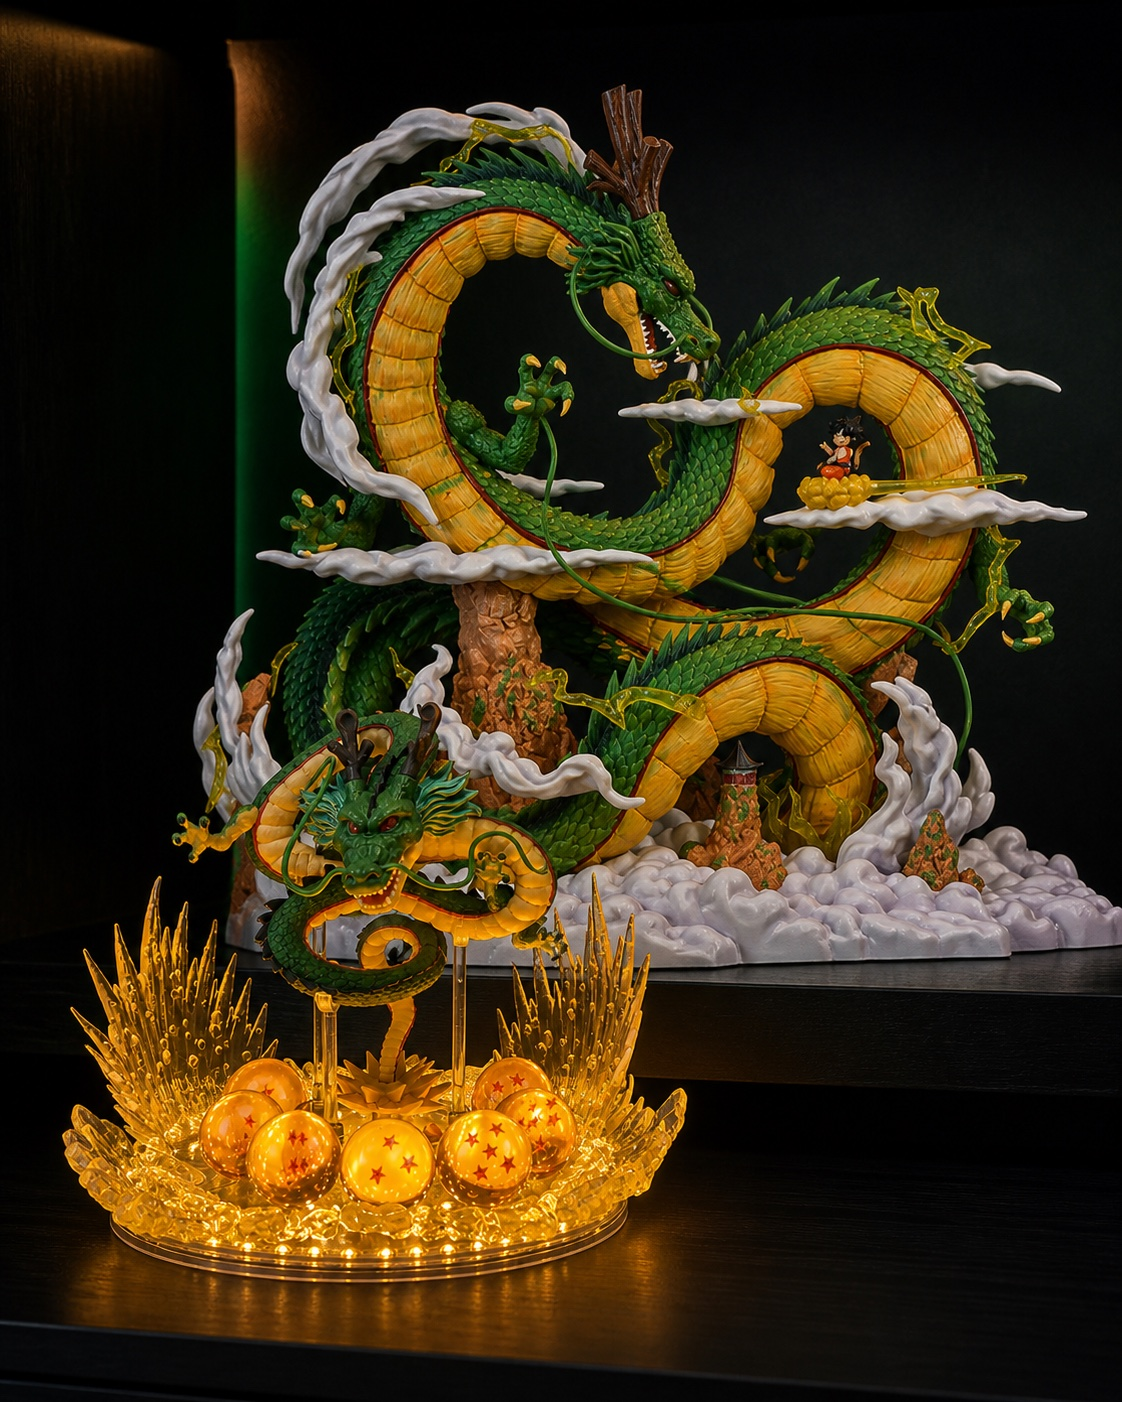
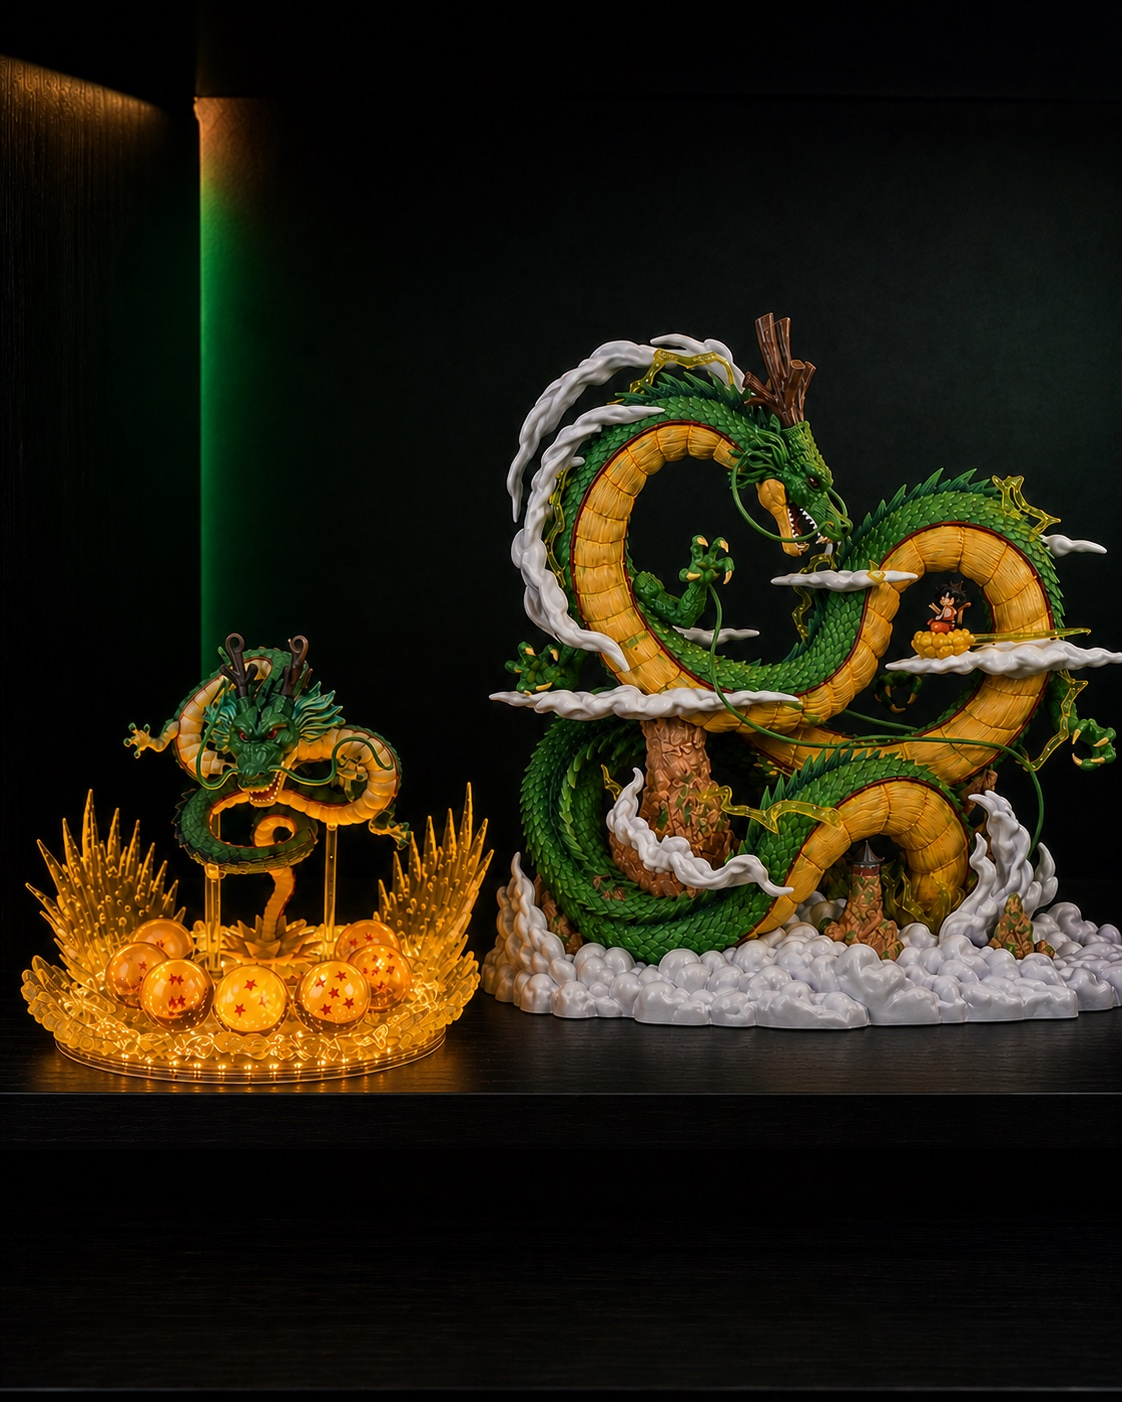
Correct collectible scale and catalog copy

diff --git a/catalog-products/summoning-glow-16cm/image-generation-log.md b/catalog-products/summoning-glow-16cm/image-generation-log.md
@@ -59,11 +59,11 @@ Conservative restoration of the supplied 432×960 customer unboxing photo: prese
 - Final file: `popup-images/complete-set-desktop.png`
 - Theme delivery file: `assets/summoning-glow-complete-set-desktop.jpg`
 - Built-in image-generation mode: referenced product mockup
-- Prompt summary: place the 16 cm illuminated Summoning Glow display beside the larger 24 cm Eternal Wish dragon-and-hero display on a dark emerald collector shelf; preserve honest relative scale, exactly two display products, seven orange spheres on Summoning Glow, and one young hero on one yellow cloud; no text, logos, packaging, hands, or extra objects.
+- Prompt summary: place the approximately 15–16 cm Summoning Glow dragon display beside the larger 24 cm Eternal Wish dragon-and-hero display on a dark emerald collector shelf; preserve an honest roughly 1.5× height relationship, exactly two display products, seven orange spheres on Summoning Glow, and one young hero on one yellow cloud; no text, logos, packaging, hands, or extra objects.
 
 ### Mobile popup image
 
 - Final file: `popup-images/complete-set-mobile.png`
 - Theme delivery file: `assets/summoning-glow-complete-set-mobile.jpg`
 - Built-in image-generation mode: referenced product mockup
-- Prompt summary: create a portrait composition of the same two-piece collectible set, with Eternal Wish centered as the larger companion and Summoning Glow lower in the foreground; preserve the same product-count, sphere-count, hero, text, logo, packaging, and accessory constraints.
+- Prompt summary: place both complete displays on the same shelf plane at the same camera distance, with the 24 cm Eternal Wish display approximately 1.5× the rigid height of the 15–16 cm Summoning Glow dragon display; preserve exactly seven orange spheres and one young hero on one yellow cloud, with no text, logos, packaging, hands, or extra objects. The original foreground-perspective draft was rejected and regenerated because it overstated Summoning Glow's apparent size.

diff --git a/catalog-products/summoning-glow-16cm/research.md b/catalog-products/summoning-glow-16cm/research.md
@@ -3,7 +3,7 @@
 ## Catalog identity
 
 - Shopify draft being finalized: `gid://shopify/Product/9420750880873`
-- Product title: `Summoning Glow — 16cm LED Dragon Display`
+- Product title: `Summoning Glow — LED Dragon Display`
 - SKU: `ZK-FIG-SG16-LED`
 - Price: `$99.99`
 - Product option: `Default Title` only
@@ -18,7 +18,7 @@
 
 ## Verified product facts used in customer-facing copy
 
-- Approximately 16 cm / 6.3 in display figure
+- Approximately 15–16 cm / 6 in dragon figure across matching supplier listings; this is not a verified total-base dimension
 - Painted PVC construction
 - Green coiled dragon figure on a small internal support stand
 - Large clear wired display base with three concentric LED rings
@@ -32,7 +32,7 @@
 - USB, wall-plug, or battery power method
 - A specific cable connector or adapter
 - Cable length
-- Exact base diameter, total weight, or package dimensions
+- Exact full-base diameter, total assembled height, total weight, or package dimensions
 - Retail or collector packaging
 - Official licensing or brand affiliation
 - A guaranteed fulfillment or delivery time

diff --git a/catalog-products/summoning-glow-16cm/cart-offer-spec.md b/catalog-products/summoning-glow-16cm/cart-offer-spec.md
@@ -2,7 +2,7 @@
 
 ## Trigger
 
-- Product: `Summoning Glow — 16cm LED Dragon Display`
+- Product: `Summoning Glow — LED Dragon Display`
 - Shopify product: `gid://shopify/Product/9420750880873`
 - Trigger point: successful main product add-to-cart from its dedicated PDP
 - Scope: this product only
